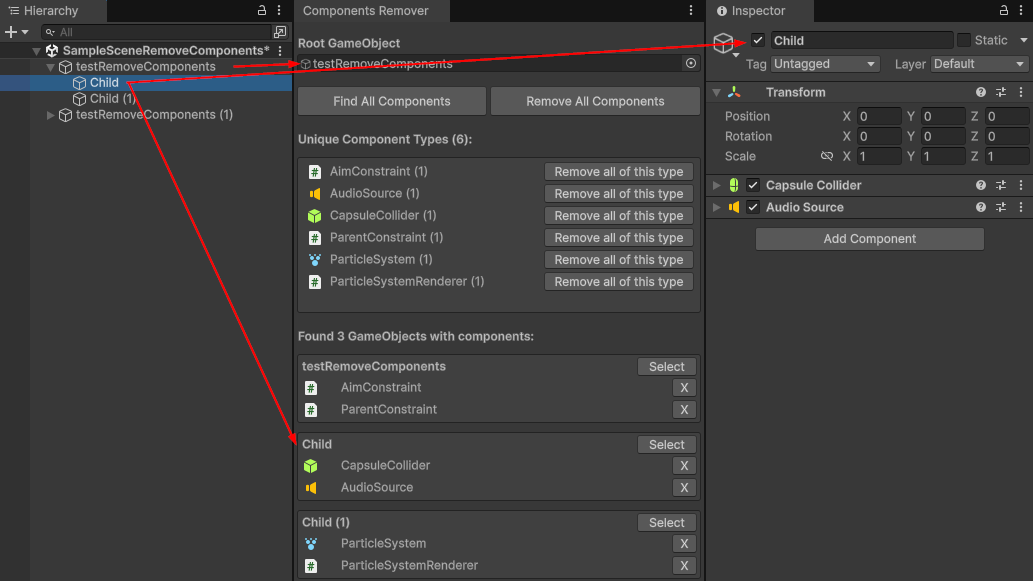
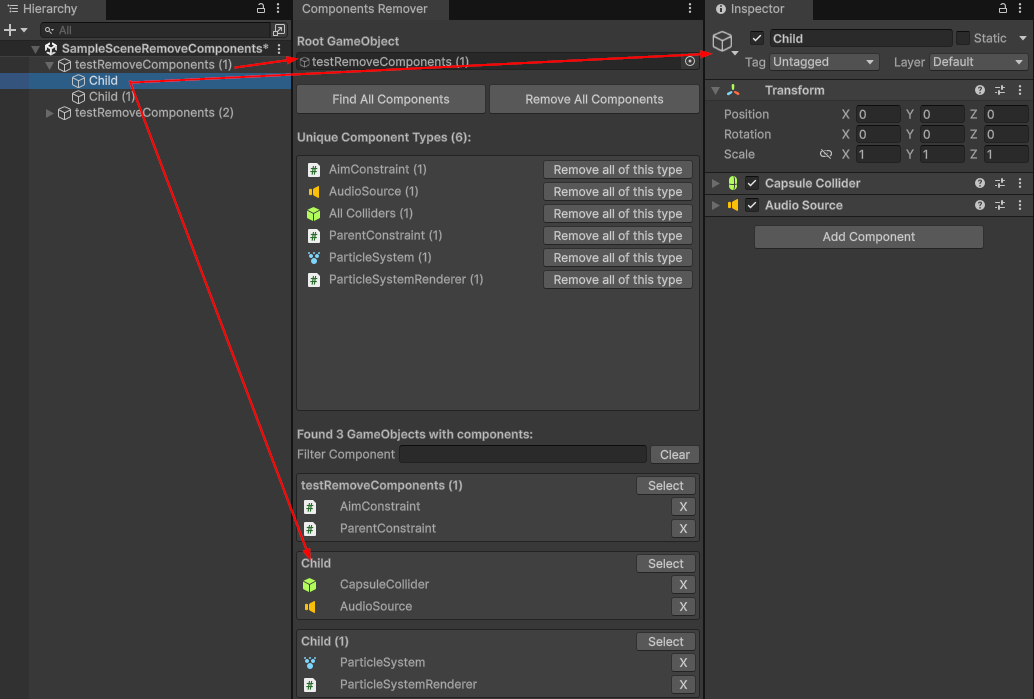
Improves component removal workflow and filtering
Adds component filtering to improve workflow when dealing with many components.

Groups similar component types (Colliders, custom MonoBehaviours)
together to simplify selection for removal.

Increases type list display area for better readability.

Changed region(s): [[0.0, 0.0, 1.0, 1.0], [0.1859, 0.3718, 0.2168, 0.4957], [0.1549, 0.2478, 0.1859, 0.3718]]

diff --git a/ComponentsRemover.cs b/ComponentsRemover.cs
@@ -16,6 +16,11 @@ public class ComponentsRemover : EditorWindow
     private Component componentToRemove = null;
     private GameObject componentOwner = null;
     private System.Type typeToRemove = null;
+    private string filterComponents = "";
+    
+    // Special grouped types
+    private static readonly System.Type COLLIDER_GROUP = typeof(Collider);
+    private static readonly System.Type CUSTOM_MONOBEHAVIOUR_GROUP = typeof(MonoBehaviour);
 
     [MenuItem("Tools/Components Remover")]
     public static void ShowWindow()
@@ -108,7 +113,7 @@ public class ComponentsRemover : EditorWindow
             EditorGUILayout.Space(5);
             
             EditorGUILayout.BeginVertical(EditorStyles.helpBox);
-            typesScrollPosition = EditorGUILayout.BeginScrollView(typesScrollPosition, GUILayout.MaxHeight(150));
+            typesScrollPosition = EditorGUILayout.BeginScrollView(typesScrollPosition, GUILayout.MinHeight(200), GUILayout.MaxHeight(250));
             
             foreach (var kvp in componentTypeCounts.OrderBy(x => x.Key.Name))
             {
@@ -123,12 +128,13 @@ public class ComponentsRemover : EditorWindow
                     GUILayout.Label(icon, GUILayout.Width(20), GUILayout.Height(20));
                 }
                 
-                EditorGUILayout.LabelField($"{type.Name} ({count})", GUILayout.ExpandWidth(true));
+                string typeName = GetGroupedTypeName(type);
+                EditorGUILayout.LabelField($"{typeName} ({count})", GUILayout.ExpandWidth(true));
                 
                 if (GUILayout.Button("Remove all of this type", GUILayout.Width(150)))
                 {
                     if (EditorUtility.DisplayDialog("Remove All Components of Type", 
-                        $"Are you sure you want to remove ALL {type.Name} components from all GameObjects under {rootGO.name}?", 
+                        $"Are you sure you want to remove ALL {typeName} components from all GameObjects under {rootGO.name}?", 
                         "Yes", "No"))
                     {
                         typeToRemove = type;
@@ -148,6 +154,18 @@ public class ComponentsRemover : EditorWindow
         if (gameObjectComponents.Count > 0)
         {
             EditorGUILayout.LabelField($"Found {gameObjectComponents.Count} GameObjects with components:", EditorStyles.boldLabel);
+            
+            // Filter components field
+            EditorGUILayout.BeginHorizontal();
+            EditorGUILayout.LabelField("Filter Components:", GUILayout.Width(100));
+            filterComponents = EditorGUILayout.TextField(filterComponents, GUILayout.ExpandWidth(true));
+            if (GUILayout.Button("Clear", GUILayout.Width(50)))
+            {
+                filterComponents = "";
+                GUI.FocusControl(null);
+            }
+            EditorGUILayout.EndHorizontal();
+            
             EditorGUILayout.Space(5);
             
             scrollPosition = EditorGUILayout.BeginScrollView(scrollPosition);
@@ -158,6 +176,27 @@ public class ComponentsRemover : EditorWindow
                 List<Component> components = kvp.Value;
                 
                 if (go == null) continue;
+                
+                // Check if this GameObject should be displayed based on filter
+                if (!string.IsNullOrEmpty(filterComponents))
+                {
+                    bool hasMatchingComponent = false;
+                    foreach (Component comp in components)
+                    {
+                        if (comp != null && !(comp is Transform))
+                        {
+                            string componentName = comp.GetType().Name.ToLower();
+                            if (componentName.StartsWith(filterComponents.ToLower()))
+                            {
+                                hasMatchingComponent = true;
+                                break;
+                            }
+                        }
+                    }
+                    
+                    if (!hasMatchingComponent)
+                        continue;
+                }
                 
                 EditorGUILayout.BeginVertical(EditorStyles.helpBox);
                 
@@ -176,6 +215,14 @@ public class ComponentsRemover : EditorWindow
                     Component comp = components[i];
                     if (comp == null || comp is Transform) continue;
                     
+                    // Highlight matching components
+                    string componentName = comp.GetType().Name;
+                    bool isMatching = string.IsNullOrEmpty(filterComponents) || 
+                                    componentName.ToLower().StartsWith(filterComponents.ToLower());
+                    
+                    if (!isMatching)
+                        continue;
+                    
                     EditorGUILayout.BeginHorizontal();
                     
                     Texture icon = GetComponentIcon(comp.GetType());
@@ -184,7 +231,7 @@ public class ComponentsRemover : EditorWindow
                         GUILayout.Label(icon, GUILayout.Width(20), GUILayout.Height(20));
                     }
                     
-                    EditorGUILayout.LabelField(comp.GetType().Name);
+                    EditorGUILayout.LabelField(componentName);
                     
                     if (GUILayout.Button("X", GUILayout.Width(25)))
                     {
@@ -243,13 +290,15 @@ public class ComponentsRemover : EditorWindow
                 {
                     nonTransformComponents.Add(comp);
                     
-                    // Count component types
+                    // Count component types with grouping
                     System.Type compType = comp.GetType();
-                    if (!componentTypeCounts.ContainsKey(compType))
+                    System.Type typeKey = GetGroupedType(compType);
+                    
+                    if (!componentTypeCounts.ContainsKey(typeKey))
                     {
-                        componentTypeCounts[compType] = 0;
+                        componentTypeCounts[typeKey] = 0;
                     }
-                    componentTypeCounts[compType]++;
+                    componentTypeCounts[typeKey]++;
                 }
             }
             
@@ -358,7 +407,7 @@ public class ComponentsRemover : EditorWindow
         
         List<Component> componentsToRemove = new List<Component>();
         
-        // Collect all components of the specified type
+        // Collect all components of the specified type or group
         foreach (var kvp in gameObjectComponents)
         {
             GameObject go = kvp.Key;
@@ -366,9 +415,30 @@ public class ComponentsRemover : EditorWindow
             
             foreach (Component comp in components)
             {
-                if (comp != null && comp.GetType() == typeToRemove)
+                if (comp != null)
                 {
-                    componentsToRemove.Add(comp);
+                    bool shouldRemove = false;
+                    
+                    if (typeToRemove == COLLIDER_GROUP)
+                    {
+                        // Remove all types of colliders
+                        shouldRemove = comp is Collider;
+                    }
+                    else if (typeToRemove == CUSTOM_MONOBEHAVIOUR_GROUP)
+                    {
+                        // Remove all custom MonoBehaviours
+                        shouldRemove = IsCustomMonoBehaviour(comp.GetType());
+                    }
+                    else
+                    {
+                        // Remove exact type match
+                        shouldRemove = comp.GetType() == typeToRemove;
+                    }
+                    
+                    if (shouldRemove)
+                    {
+                        componentsToRemove.Add(comp);
+                    }
                 }
             }
         }
@@ -413,5 +483,56 @@ public class ComponentsRemover : EditorWindow
                 }
             }
         }
+    }
+    
+    private System.Type GetGroupedType(System.Type type)
+    {
+        // Group all colliders together
+        if (type.IsSubclassOf(typeof(Collider)) || type == typeof(Collider))
+        {
+            return COLLIDER_GROUP;
+        }
+        
+        // Group all custom MonoBehaviours together
+        if (IsCustomMonoBehaviour(type))
+        {
+            return CUSTOM_MONOBEHAVIOUR_GROUP;
+        }
+        
+        // Return the original type for built-in components
+        return type;
+    }
+    
+    private string GetGroupedTypeName(System.Type type)
+    {
+        if (type == COLLIDER_GROUP)
+        {
+            return "All Colliders";
+        }
+        else if (type == CUSTOM_MONOBEHAVIOUR_GROUP)
+        {
+            return "Custom Scripts";
+        }
+        else
+        {
+            return type.Name;
+        }
+    }
+    
+    private bool IsCustomMonoBehaviour(System.Type type)
+    {
+        // Check if it's a MonoBehaviour but not a built-in Unity component
+        if (!type.IsSubclassOf(typeof(MonoBehaviour)))
+        {
+            return false;
+        }
+        
+        // Get the assembly name
+        string assemblyName = type.Assembly.GetName().Name;
+        
+        // Unity's built-in components are in UnityEngine assemblies
+        return !assemblyName.StartsWith("UnityEngine") && 
+               !assemblyName.StartsWith("Unity.") &&
+               !assemblyName.StartsWith("UnityEditor");
     }
 }
